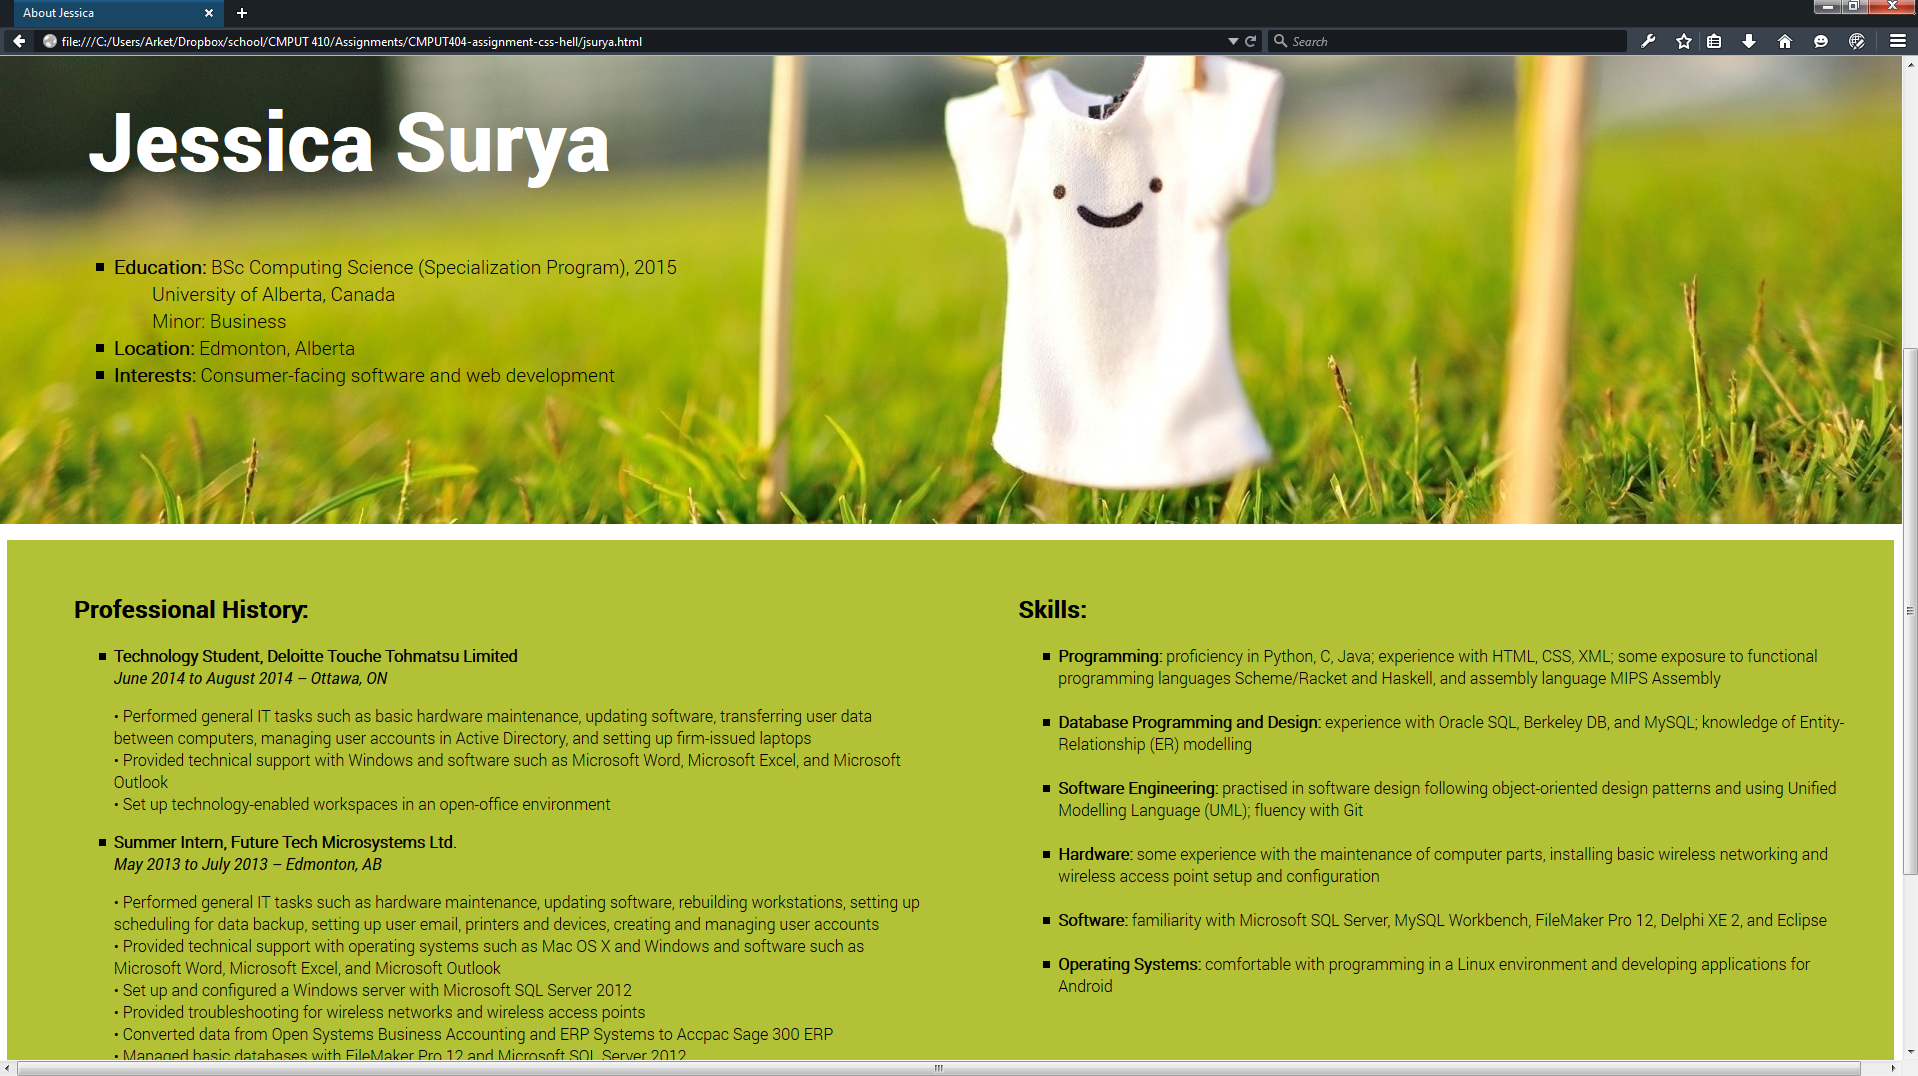
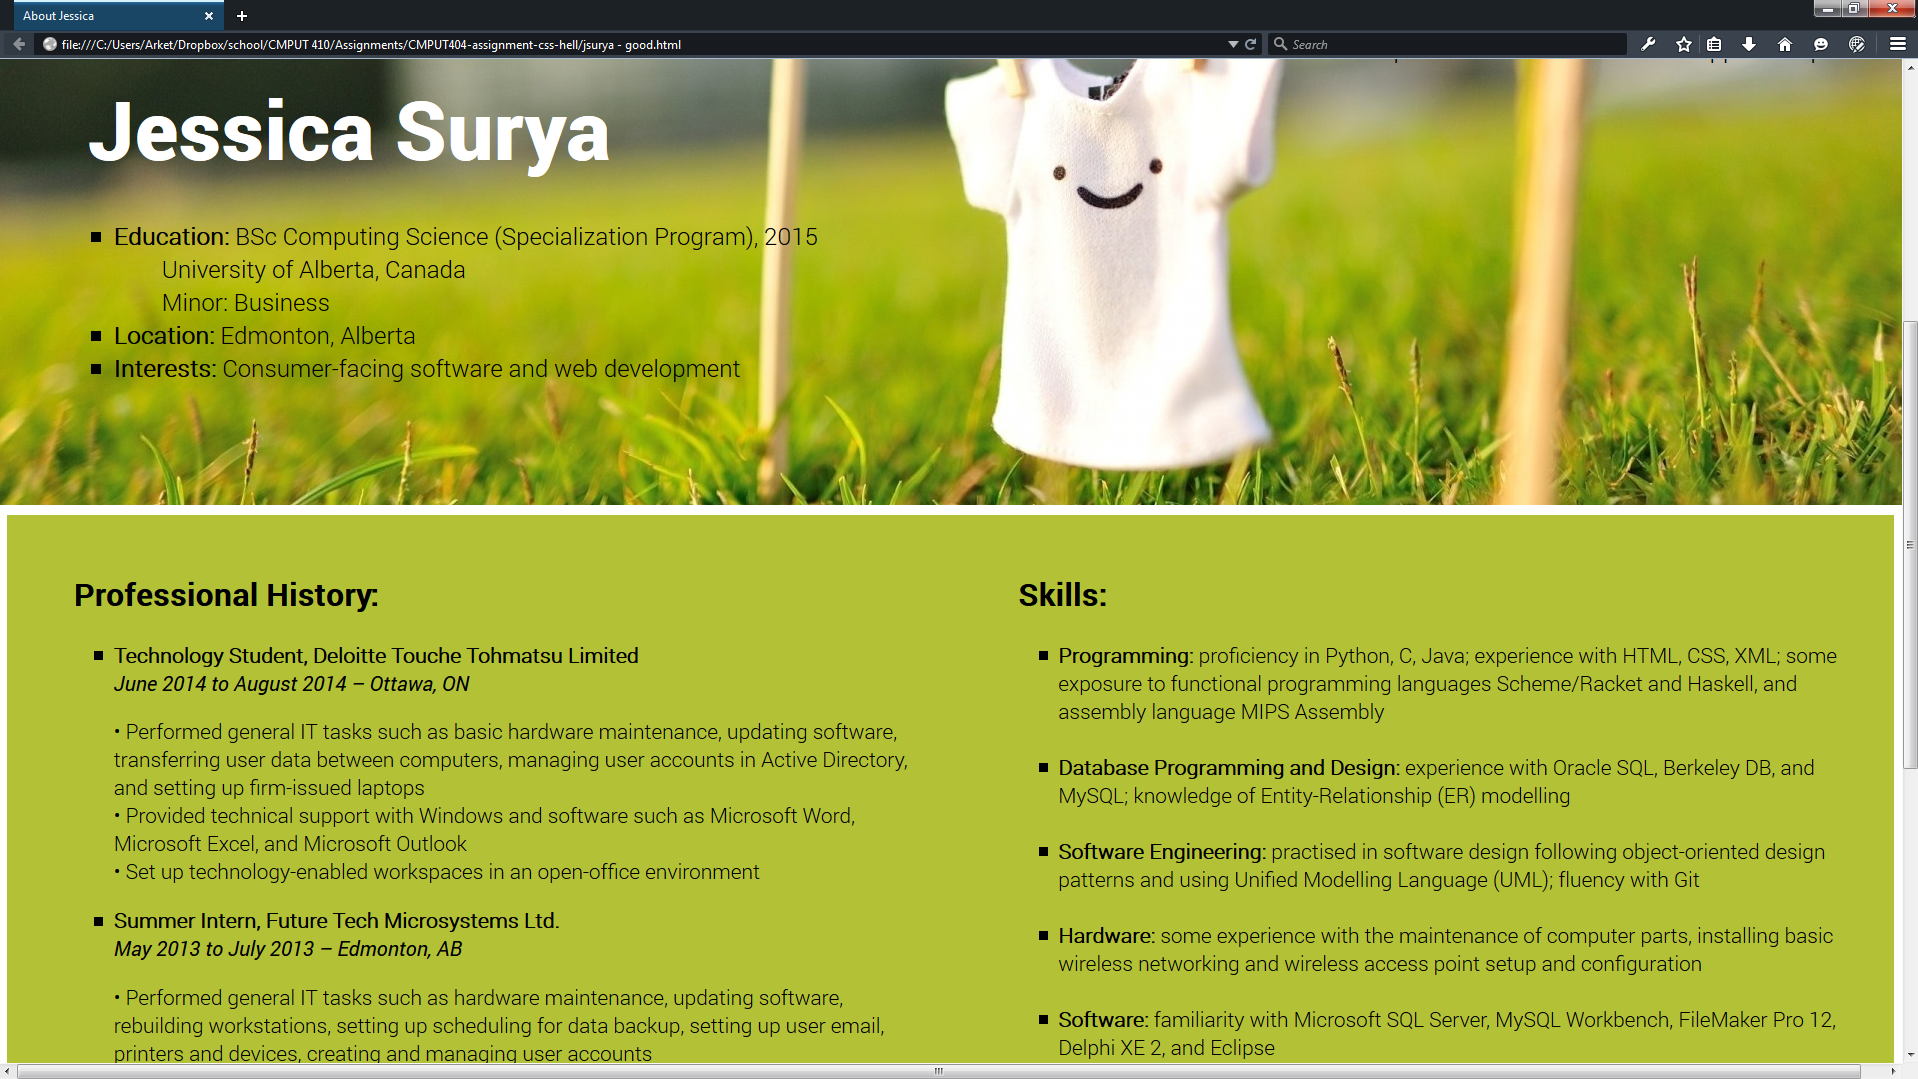
enhanced readability and updated screenshots

diff --git a/styles/jsurya-good.css b/styles/jsurya-good.css
@@ -21,6 +21,7 @@
 .header {
 	width:100%;
 	text-align:center;
+	font-weight: bold;
 	font-family: "roboto";
 	padding: 25pt 10pt 5pt 10pt;
 }
@@ -76,8 +77,8 @@ body {
 	float: right;
 	width:30%;
 	height: 100%;
-	font-family: "roboto";
-	font-size: large;
+	font-family: "roboto-medium";
+	font-size: x-large;
 	padding-top: 100pt;
 }
 	
@@ -92,7 +93,7 @@ body {
 	height: 100%;
 	float: left;
 	margin-left: 50pt;
-	margin-top: -100pt;
+	margin-top: -150pt;
 
 }
 
@@ -104,6 +105,7 @@ body {
 ul li {
 	font-family:"roboto";
 	list-style-type: square;
+
 }
 
 h1 {
@@ -118,19 +120,19 @@ h1 {
 	margin-right: 40pt;
 	font-size: 500%;
 	float: left;
-	margin-bottom: 30pt;
+	margin-bottom: 10pt;
 	color: white;
 }
 
 .about {
 	float:left;
 	clear:left;
-	font-size: 120%
+	font-size: 150%
 }	
 
 .container {
 	float:left;
-	margin-top: 100pt;
+	margin-top: 80pt;
 	padding-top: 2em;
 		background-image: url("../img/green.png");
 }
@@ -141,13 +143,14 @@ h1 {
 	float:left;
 	margin-left: 50pt;
 	margin-bottom: 50pt;
-		
+	font-size: 130%	
 }
 
 .skills {
 	float:right;
 	width: 45%;
 	margin-right: 20pt;
+	font-size: 130%	
 }
 
 .date-location {
